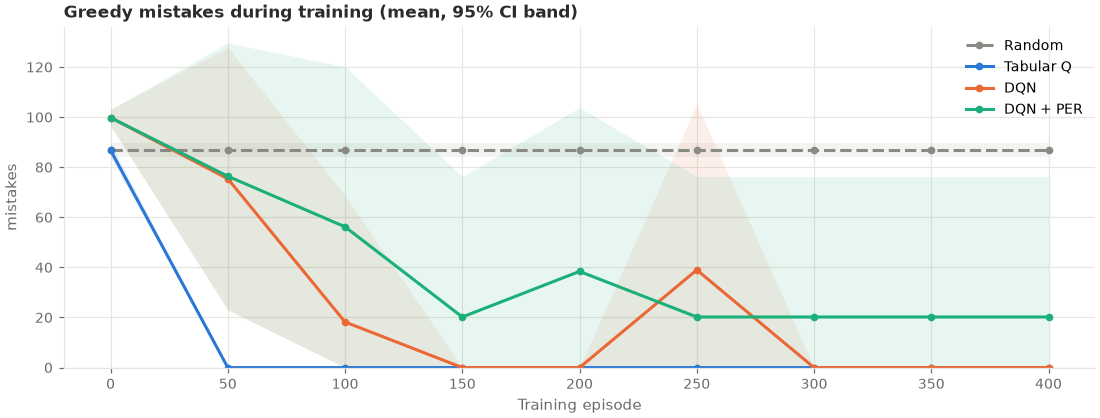
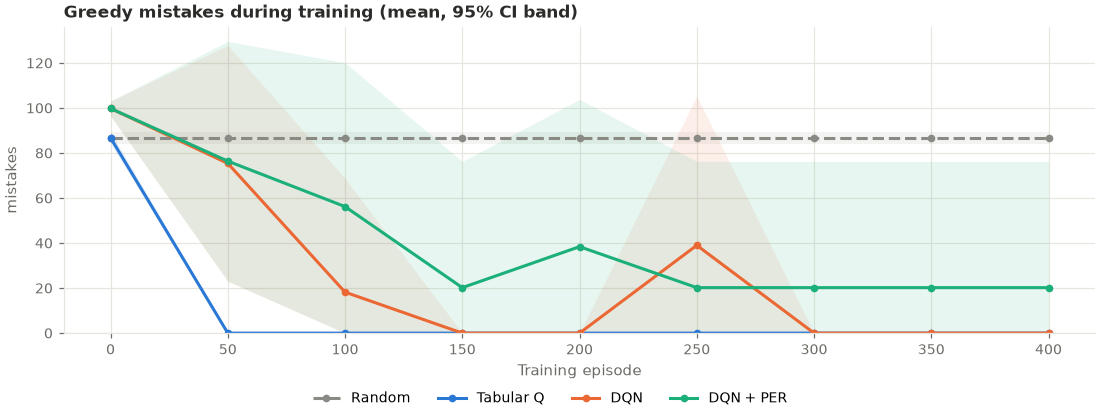
Move chart legends below charts; add report template and publishing guide
Legends drawn inside the plot area covered lines, bars and bands in
the dashboard (e.g. the Tabular Q legend sat on the success line at
1.0). Every legend now sits in one row below its chart, outside all
plot areas, via a shared helper. A new test draws every chart and
checks that no legend overlaps a plot or title and no two titles
overlap. Verified with screenshots of each dashboard tab.

The significance-test table gets a shorter "difference" header and
column widths, so verdicts are no longer cut off.

Add REPORT_TEMPLATE.md (fill-in template naming the file behind each
number) and docs/PUBLISHING.md (GitHub, Colab and Hugging Face Spaces,
including keeping tokens out of the repository). Regenerate figures.

diff --git a/tests/test_visualization.py b/tests/test_visualization.py
@@ -2,6 +2,7 @@ from pathlib import Path
 
 import numpy as np
 import pytest
+from matplotlib.backends.backend_agg import FigureCanvasAgg
 from matplotlib.figure import Figure
 
 from src.agents import EpsilonSchedule, TabularQAgent
@@ -61,7 +62,8 @@ def test_experiment_figures_from_saved_results():
     bars = experiment_bars_figure(exp["summary"], "success")
     assert len(bars.axes) == 2                                # train and unseen panels
     curves = experiment_curves_figure(exp["curves"], "mistakes")
-    labels = {t.get_text() for t in curves.axes[0].get_legend().get_texts()}
+    assert curves.axes[0].get_legend() is None          # legend sits below the chart
+    labels = {t.get_text() for t in curves.legends[0].get_texts()}
     assert labels == {"Random", "Tabular Q", "DQN"}
 
 
@@ -90,3 +92,45 @@ def test_recorded_episode_is_the_greedy_evaluation_episode():
     frames = record_episode(make_env("maze"), agent, seed=3)
     result = evaluate_agent(agent, make_env("maze"), episodes=1, seed=3)
     assert frames[-1]["episode"]["steps"] == result["episodes"][0]["steps"]
+
+
+def _boxes_overlap(a, b) -> bool:
+    return a.x0 < b.x1 and b.x0 < a.x1 and a.y0 < b.y1 and b.y0 < a.y1
+
+
+def _all_figures(trainer):
+    env = make_env("maze")
+    agent = TabularQAgent(4, epsilon=EpsilonSchedule(decay_episodes=30), seed=0)
+    train_agent(env, agent, 40, seed=0)
+    replay_env = make_env("maze")
+    frames = record_episode(replay_env, agent)
+    figs = [learning_curves_figure({"tabular_q": trainer.history, "random": trainer.history}),
+            mistake_types_figure(trainer.history),
+            reward_breakdown_figure(trainer.history),
+            mistake_heatmap_figure(trainer.env.grid, trainer.mistakes, range(0, 20),
+                                   range(40, 60), start=trainer.env.start),
+            maze_figure(trainer.env, title="maze layout"),
+            frame_figure(replay_env, frames, len(frames) // 2)]
+    for name in ("fixed_maze", "generalization"):
+        if (RESULTS / name).exists():
+            exp = load_experiment(RESULTS / name)
+            figs += [experiment_curves_figure(exp["curves"], "success"),
+                     experiment_bars_figure(exp["summary"], "success")]
+    return figs
+
+
+def test_no_legend_or_title_overlaps(trained):
+    for fig in _all_figures(trained):
+        canvas = FigureCanvasAgg(fig)   # pyplot-free figures need a canvas to measure on
+        canvas.draw()
+        renderer = canvas.get_renderer()
+        legends = [lg.get_window_extent(renderer) for lg in fig.legends]
+        assert not any(ax.get_legend() for ax in fig.axes), "legends must sit outside the plots"
+        plots = [ax.get_window_extent(renderer) for ax in fig.axes if ax.get_label() != "<colorbar>"]
+        titles = [ax.title.get_window_extent(renderer) for ax in fig.axes if ax.get_title(loc="left")]
+        for lg in legends:
+            assert not any(_boxes_overlap(lg, p) for p in plots), "legend covers a plot"
+            assert not any(_boxes_overlap(lg, t) for t in titles), "legend covers a title"
+        for i, t in enumerate(titles):
+            for other in titles[i + 1:]:
+                assert not _boxes_overlap(t, other), "two titles overlap"

diff --git a/src/visualization.py b/src/visualization.py
@@ -62,6 +62,18 @@ def _style(ax) -> None:
     ax.yaxis.label.set_color(MUTED)
 
 
+def _legend_below(fig: Figure, ax) -> None:
+    """One legend row underneath the chart, outside every plot area.
+
+    A legend inside the axes can cover lines, bars or bands (and, near the
+    top, crowd the title), so legends always go below the figure instead.
+    """
+    handles, labels = ax.get_legend_handles_labels()
+    if handles:
+        fig.legend(handles, labels, loc="outside lower center", ncols=len(handles),
+                   frameon=False, fontsize=9)
+
+
 def _title(ax, text: str) -> None:
     ax.set_title(text, loc="left", color=INK, fontsize=11, fontweight="bold")
 
@@ -184,7 +196,7 @@ def learning_curves_figure(histories: Dict[str, List[dict]], window: int = 25) -
     ax_m.set_ylim(bottom=0)
     for ax in (ax_s, ax_m):
         ax.set_xlabel("Training episode")
-        ax.legend(frameon=False, fontsize=9)
+    _legend_below(fig, ax_s)  # both panels share the same agents
     return fig
 
 
@@ -204,7 +216,7 @@ def mistake_types_figure(history: List[dict], window: int = 25) -> Figure:
     ax.set_xlabel("Training episode")
     ax.set_ylabel("per episode")
     ax.set_ylim(bottom=0)
-    ax.legend(frameon=False, fontsize=9, ncols=4)
+    _legend_below(fig, ax)
     return fig
 
 
@@ -233,7 +245,7 @@ def reward_breakdown_figure(history: List[dict], window: int = 50) -> Figure:
     ax.grid(axis="y", visible=False)
     _title(ax, "Where the reward comes from (mean per episode)")
     ax.set_xlabel("reward")
-    ax.legend(frameon=False, fontsize=9, loc="lower right")
+    _legend_below(fig, ax)
     lo = min(min(early), min(late), 0)
     hi = max(max(early), max(late), 0)
     pad = 0.25 * (hi - lo or 1)
@@ -297,7 +309,7 @@ def experiment_curves_figure(curves: List[dict], metric: str = "success",
         ax.set_ylim(-0.03, 1.05)
     else:
         ax.set_ylim(bottom=0)
-    ax.legend(frameon=False, fontsize=9)
+    _legend_below(fig, ax)
     return fig
 
 

diff --git a/src/app.py b/src/app.py
@@ -91,7 +91,7 @@ def _tests_frame(results: List[dict]) -> pd.DataFrame:
             c = compare_agents(results, b, a, "success", split)
             rows.append({"split": split,
                          "comparison": f"{AGENT_LABELS[b]} − {AGENT_LABELS[a]}",
-                         "success difference": round(c["difference"], 2),
+                         "difference": round(c["difference"], 2),
                          "p-value": round(c["p_value"], 3),
                          "verdict": fun.verdict(c["p_value"], c["difference"], b, a)})
     return pd.DataFrame(rows)
@@ -448,7 +448,8 @@ def build_app() -> gr.Blocks:
             gr.Markdown("#### Mean ± 95% confidence interval across seeds")
             summary_df = gr.Dataframe(interactive=False, wrap=True)
             gr.Markdown("#### Are the differences real? (permutation tests on success rate)")
-            tests_df = gr.Dataframe(interactive=False, wrap=True)
+            tests_df = gr.Dataframe(interactive=False, wrap=True,
+                                    column_widths=["8%", "18%", "11%", "9%", "54%"])
             outputs = [exp_md, bars, curves, summary_df, tests_df]
             exp_dd.change(show_results, [exp_dd, metric_dd], outputs)
             metric_dd.change(show_results, [exp_dd, metric_dd], outputs)

diff --git a/docs/PUBLISHING.md b/docs/PUBLISHING.md
@@ -1,0 +1,96 @@
+# Publishing the project
+
+How to put MIND (or a copy of it) on GitHub, open it in Google Colab, and host the dashboard on Hugging Face Spaces. Commands are for Windows PowerShell; on macOS or Linux they are the same apart from activating the virtual environment.
+
+## 1. Before you publish: keep secrets out
+
+Access tokens (Hugging Face, GitHub, API keys) must never be committed. A public repository is copied and indexed quickly, and a leaked token can be used by anyone until you revoke it.
+
+- Never save a token inside the project folder. If you have to, `.gitignore` already ignores `hf_token`, `*_token`, `*.token`, `*token*.txt` and `.env`.
+- Never paste a token into a chat, an issue or a commit message.
+- Check what you are about to commit with `git status` and `git diff --cached` before every commit.
+- If a token does leak, **revoke it first** (https://huggingface.co/settings/tokens or https://github.com/settings/tokens), then remove it from the files.
+
+## 2. Put the project on GitHub
+
+### First time
+
+1. **Create an empty repository** at https://github.com/new. Give it a name without spaces (e.g. `ai-that-learns-from-its-mistakes`) and choose Public or Private. **Do not** tick "Add a README", ".gitignore" or "license": the project already has them, and an empty repository avoids a rejected first push.
+
+2. **Commit the project locally** (skip if it is already a git repository: `git status` will say so):
+
+   ```powershell
+   cd "C:\path\to\the\project"
+   git init -b main
+   git add -A
+   git status                      # check: no tokens, no .venv, no runs/
+   git commit -m "Initial commit"
+   ```
+
+3. **Connect and push:**
+
+   ```powershell
+   git remote add origin https://github.com/<your-username>/<repository>.git
+   git push -u origin main
+   ```
+
+   The first push opens a GitHub sign-in window (Git Credential Manager, included with Git for Windows). After that, `git push` works without signing in again.
+
+### Every change after that
+
+```powershell
+python -m pytest -q -m "not slow"   # make sure the tests pass
+git add <the files you changed>
+git commit -m "Describe what changed and why"
+git push
+```
+
+Record notable changes in `CHANGELOG.md`.
+
+### Make it look good on GitHub
+
+- The `README.md` at the root is the repository's front page.
+- `LICENSE` (MIT) makes reuse legal; GitHub shows it in the sidebar.
+- On the repository page, click the gear icon next to **About** to add a description, the topics (e.g. `reinforcement-learning`, `q-learning`, `dqn`, `pytorch`, `gradio`), and a website link once the Space is running.
+
+## 3. Open it in Google Colab
+
+The badge at the top of the README opens the notebook straight from GitHub:
+
+```
+https://colab.research.google.com/github/<your-username>/<repository>/blob/main/MIND_Colab.ipynb
+```
+
+If you fork or rename the repository, update that link in `README.md` and the `REPO_URL` in the notebook's first code cell. For a **private** repository, Colab needs access: open the notebook through *File → Open notebook → GitHub* and sign in, or make the repository public.
+
+## 4. Host the dashboard on Hugging Face Spaces
+
+1. **Create a Space** at https://huggingface.co/new-space: pick a name, license MIT, SDK **Gradio** (Blank template), hardware **CPU basic**, visibility Public.
+2. **Create an access token** with **Write** permission at https://huggingface.co/settings/tokens. Keep it to yourself.
+3. **Deploy** from the project folder:
+
+   ```powershell
+   .venv\Scripts\Activate.ps1
+   python space/deploy.py --space <hf-username>/<space-name>
+   ```
+
+   A sign-in window appears: enter your Hugging Face username, and paste the **token** (not your password) into the password field.
+
+`space/deploy.py` uploads only what the app needs: the `.py` files in `src/`, `results/`, `LICENSE`, and the Space's own `README.md` (whose header sets the Gradio version and Python version), `app.py` and `requirements.txt` from the `space/` folder. The Space then builds for a few minutes, mostly installing PyTorch. Run the same command again after future changes to update it.
+
+**Things to know about the free tier**
+
+- A free Space sleeps after about 48 hours without visitors. The next visit wakes it up, which takes a minute or so; the address never changes.
+- All visitors share the Space's CPU. Training requests wait in a queue when several people use it at once.
+- If the Space shows **Paused** with "Quota exceeded for flavor cpu-basic", your account's free CPU allowance is used up or set to zero. Pause your other Spaces, upgrade your account, or contact Hugging Face support. The code itself does not need to change.
+
+## 5. Without hosting: a temporary public link
+
+From Colab (or any machine running the project):
+
+```python
+from src.app import launch_app
+launch_app(share=True)
+```
+
+or `python -m src.app --share`. Gradio prints a `https://….gradio.live` link that works for about 72 hours while the process runs.

diff --git a/REPORT_TEMPLATE.md b/REPORT_TEMPLATE.md
@@ -1,0 +1,110 @@
+# Report template
+
+A fill-in template for writing up a new MIND experiment, for example a rerun with more seeds, new hyperparameters or a new environment. [REPORT.md](REPORT.md) is the completed report for the experiments in `results/`; use it as a worked example.
+
+Each section says where its numbers come from. **Fill in only numbers you have produced**, and keep every claim tied to a file in `results/`.
+
+---
+
+# <Title>
+
+## 1. Summary
+
+<3–5 sentences: the question, what was compared, and the main findings, each with its effect size and p-value.>
+
+## 2. Question
+
+<What are you testing, and why? For example: "Does prioritized replay reduce greedy mistakes on the hazard maze with 10 seeds?">
+
+## 3. Setup
+
+| Setting | Value | Source |
+|---|---|---|
+| Environment preset and overrides | <e.g. `maze_hazards`, `hazard_terminal: false`> | `results/<name>/experiment.json` → `env_preset`, `env_overrides` |
+| Agents | <e.g. random, tabular_q, dqn, dqn_per> | `experiment.json` → `agents` |
+| Seeds | <e.g. 0–9> | `experiment.json` → `seeds` |
+| Training episodes per run | <e.g. 400> | `experiment.json` → `episodes` |
+| Exploration decay (episodes) | <e.g. 300> | `experiment.json` → `decay_episodes` |
+| Agent overrides | <e.g. `{"dqn": {"lr": 5e-4}}`, or none> | `experiment.json` → `agent_kwargs` |
+| Unseen layouts | <e.g. 1000–1049, or none> | `experiment.json` → `unseen_layouts` |
+
+Reward table and algorithm details: unchanged from [REPORT.md](REPORT.md), Sections 3–4, unless you changed them. If you did, say exactly what changed.
+
+**How to run it:** add an `Experiment(...)` entry to `EXPERIMENTS` in `src/evaluation.py`, then:
+
+```bash
+python -m src.evaluation --experiment <name>
+```
+
+## 4. Evaluation protocol
+
+Unchanged from [REPORT.md](REPORT.md), Section 5 (greedy evaluation, mean ± 95% t-interval across seeds, exact permutation tests), unless stated here.
+
+<Note anything different, e.g. a different number of evaluation episodes.>
+
+## 5. Results
+
+### Final greedy performance
+
+Copy from `results/<name>/summary.csv` (columns `<metric>_mean`, `<metric>_ci`), or from the printout at the end of the experiment command.
+
+| Agent | Split | Success | Path efficiency | Steps | Mistakes | Hazards |
+|---|---|---|---|---|---|---|
+| <agent> | <train / unseen> | <mean ± ci> | <mean ± ci> | <mean ± ci> | <mean ± ci> | <mean ± ci> |
+
+### Per-seed values
+
+From `results/<name>/results.csv` (one row per agent, seed and split). List them for any comparison you discuss, because means hide outliers.
+
+<e.g. "DQN success per seed: 1.0, 1.0, 0.0, 1.0, 1.0">
+
+### Comparisons
+
+Printed by the experiment command under "Success-rate differences", or computed with:
+
+```python
+from src.evaluation import load_experiment, compare_agents
+r = load_experiment("results/<name>")["results"]
+compare_agents(r, "<agent a>", "<agent b>", metric="success", split="train")
+```
+
+| Comparison | Metric | Difference | p-value | Established? |
+|---|---|---|---|---|
+| <a − b> | <success> | <+0.00> | <0.000> | <yes if p < 0.05, otherwise no> |
+
+Remember the smallest attainable p-value: 0.008 with 5 seeds per agent, 0.10 with 3. A difference that cannot reach significance with your seed count is "not established", however large it looks.
+
+### Figures
+
+Generate with `src/visualization.py`, for example:
+
+```python
+from src.evaluation import load_experiment
+from src.visualization import experiment_curves_figure, experiment_bars_figure
+exp = load_experiment("results/<name>")
+experiment_curves_figure(exp["curves"], "success").savefig("docs/figures/<name>_success.png", dpi=110)
+experiment_bars_figure(exp["summary"], "success").savefig("docs/figures/<name>_bars.png", dpi=110)
+```
+
+![<description>](docs/figures/<name>_success.png)
+
+## 6. Discussion
+
+<What the results mean. Check, as REPORT.md did:>
+- <Is a lower mistake count matched by a higher success rate, or did the agent find a shortcut, such as ending episodes early?>
+- <Was learning stable across seeds, or did some runs fail? Look at the per-seed values and `curves.csv`.>
+- <Does training-time behaviour (`episodes.csv` in each run directory) agree with greedy evaluation?>
+
+## 7. Limitations
+
+<Seed count, task size, tuning, training budget, and anything specific to this experiment.>
+
+## 8. Reproducibility
+
+```bash
+python -m src.evaluation --experiment <name>
+```
+
+Software versions: <`python --version`, and `pip show torch numpy gradio` for the others>. Hardware: <CPU or Colab>.
+
+Saved outputs: `results/<name>/` (`summary.csv`, `results.csv`, `curves.csv`, `experiment.json`, `run.log`).

diff --git a/CHANGELOG.md b/CHANGELOG.md
@@ -2,6 +2,17 @@
 
 What each stage of MIND added or changed, with the reason behind each change.
 
+## Documentation and chart fixes
+
+**Added**
+- `REPORT_TEMPLATE.md`: a fill-in template for writing up new experiments, with the file each number comes from.
+- `docs/PUBLISHING.md`: how to publish on GitHub, open in Colab and host on Hugging Face Spaces, including keeping tokens out of the repository.
+- `space/`: the Hugging Face Space files and `deploy.py`; `LICENSE` (MIT).
+
+**Fixed**
+- Chart headings overlapping chart titles in the dashboard: Gradio's plot labels (drawn over each chart's top-left corner) are hidden, and every legend now sits in a row below its chart instead of inside the plot, where it covered lines and bars. A test checks that no legend overlaps a plot or title and no two titles overlap.
+- Long replay titles split over two lines; the significance-test table has column widths so verdicts are no longer cut off.
+
 ## Stages 6 & 7: visualization, Gradio dashboard, and the lighter side
 
 **Added**

diff --git a/README.md b/README.md
@@ -138,6 +138,8 @@ results/            saved experiment results (summaries, per-run metrics, curves
 docs/figures/       figures used here and in the report
 MIND_Colab.ipynb    end-to-end notebook
 REPORT.md           final report
+REPORT_TEMPLATE.md  template for writing up new experiments
+docs/PUBLISHING.md  how to publish on GitHub, Colab and Hugging Face Spaces
 CHANGELOG.md        what changed at each stage, and why
 LICENSE             MIT License
 ```
@@ -149,7 +151,7 @@ LICENSE             MIT License
 - One set of hyperparameters per algorithm, tuned on the fixed maze only.
 - The revisit penalty depends on history the observation does not include, so that part of the reward is not Markovian.
 
-See [REPORT.md](REPORT.md) for the full discussion.
+See [REPORT.md](REPORT.md) for the full discussion. To write up a new experiment, start from [REPORT_TEMPLATE.md](REPORT_TEMPLATE.md); to publish your own copy, follow [docs/PUBLISHING.md](docs/PUBLISHING.md).
 
 ## License
 
